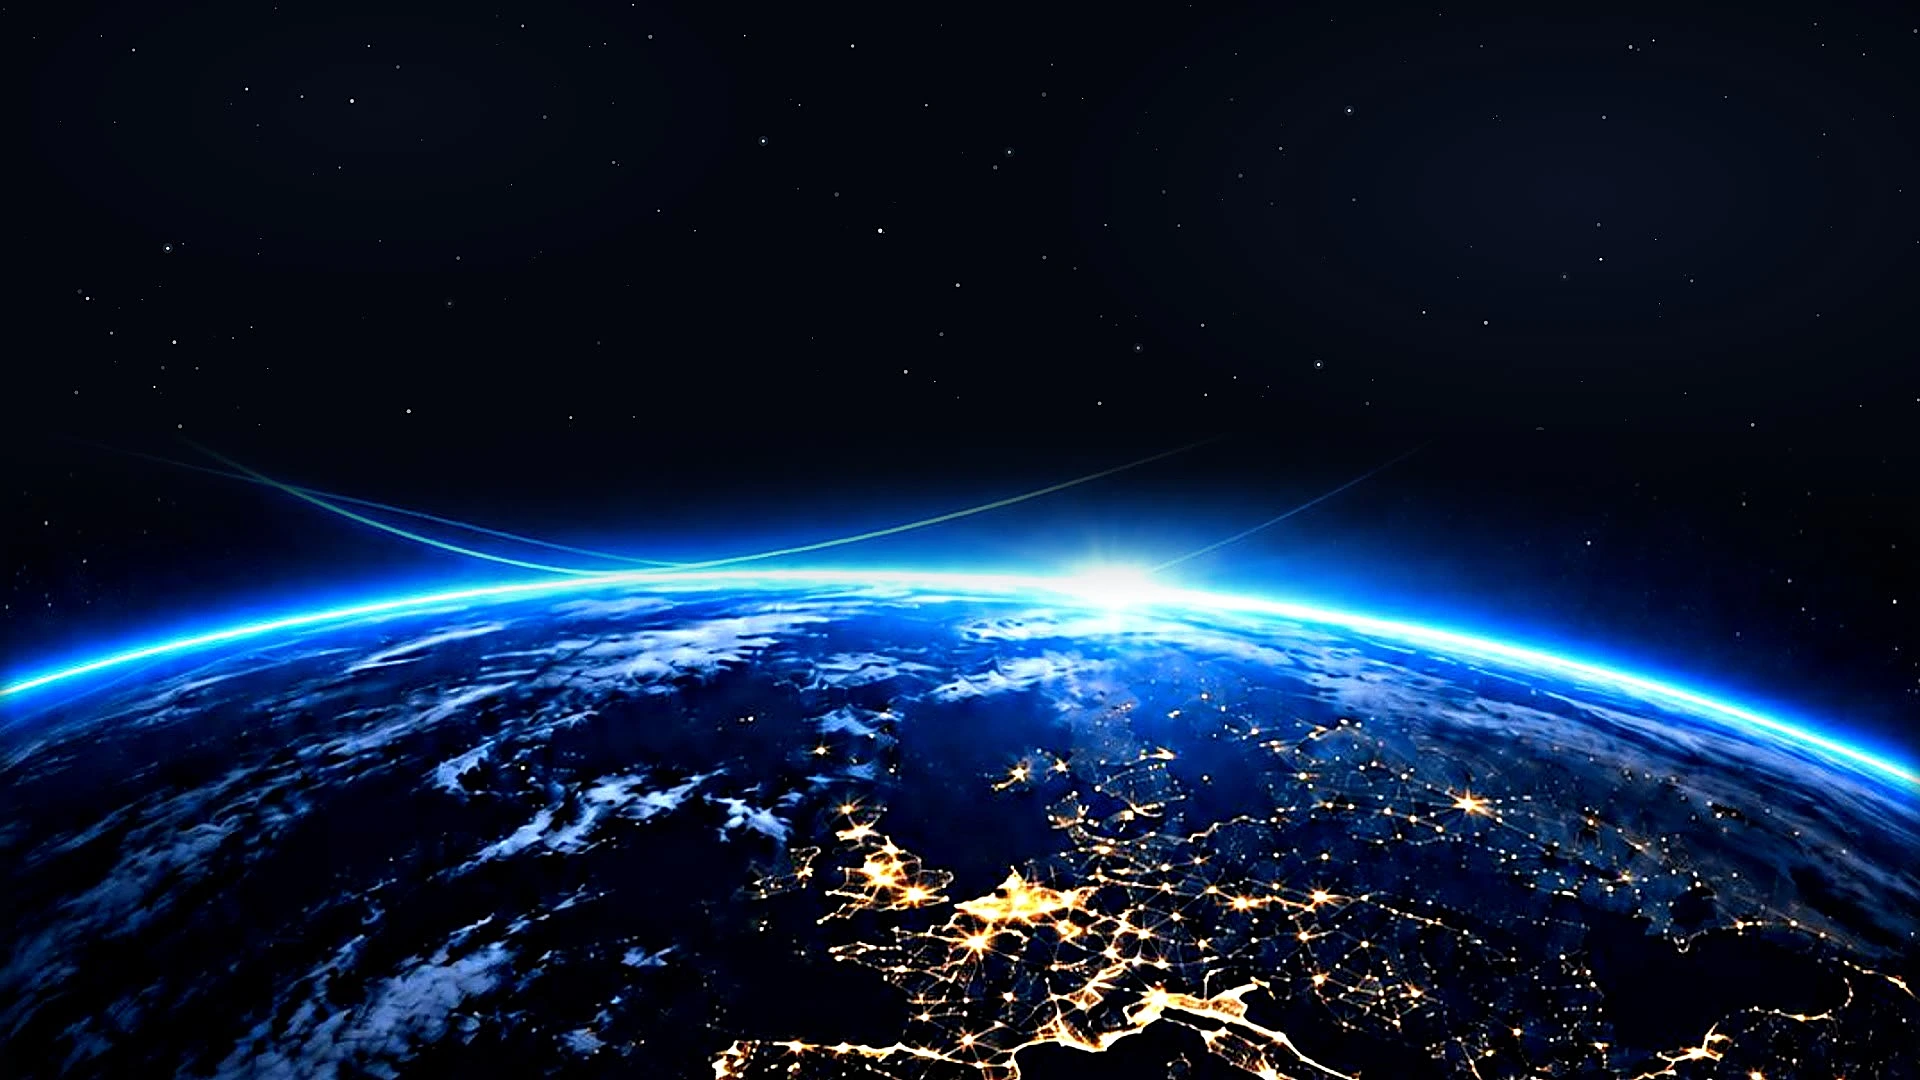
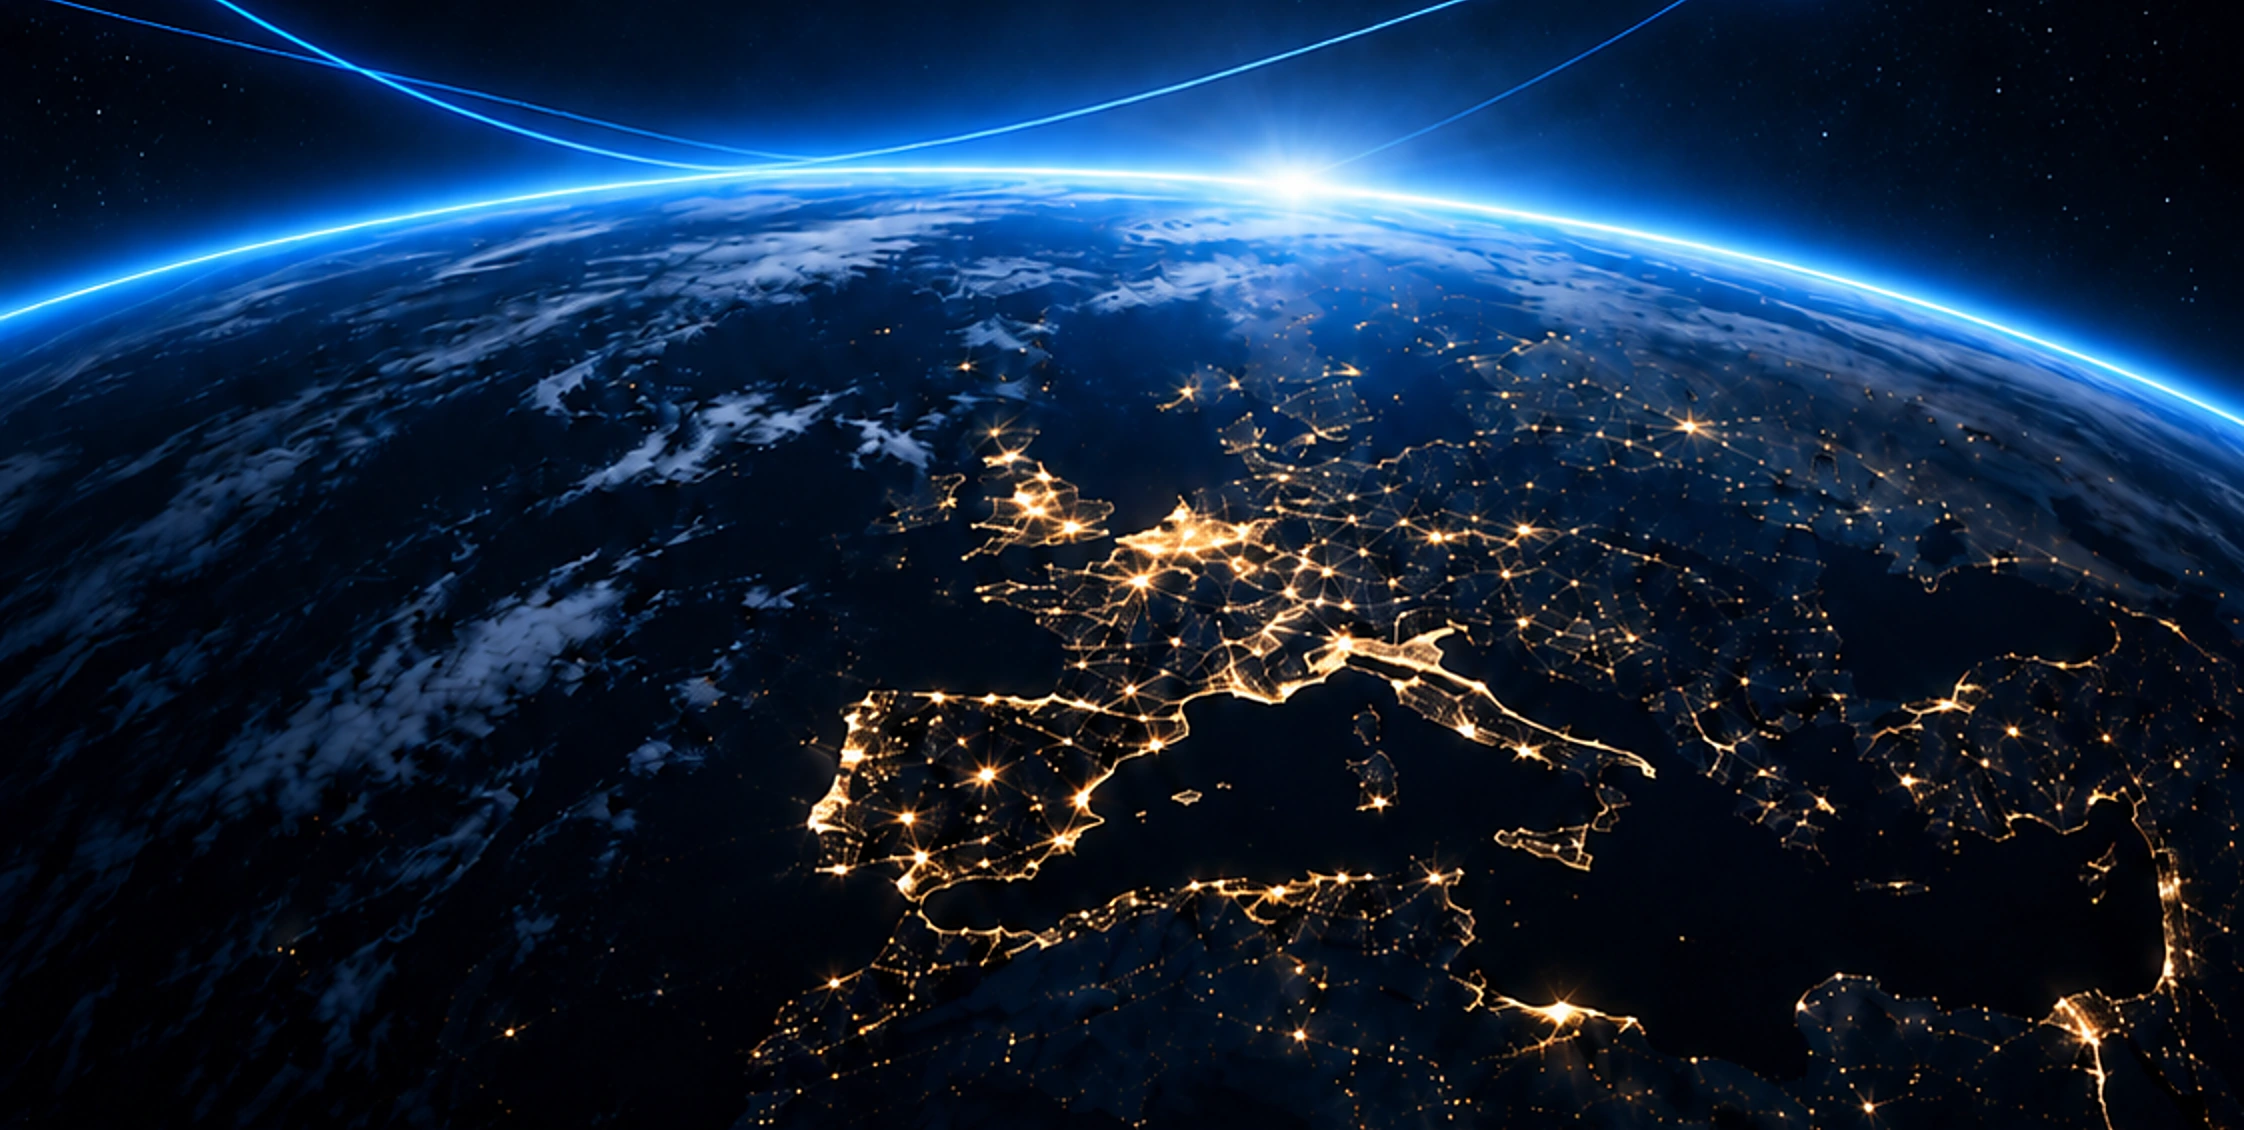
homepage (dev): CTA final — mundo da pasta de identidade, mais nítido e mais curto
O mundo passa a ser o da imagem de identidade Finer One (Terra com as luzes da
Europa): recorte sem texto, ampliado 2x com nitidez reforçada. Secção mais
curta (de 809 para 647 px no desktop, 552 px no telemóvel), enquadramento no
horizonte e na Europa, eyebrow sem traços laterais no telemóvel.

diff --git a/src/components/v2/FinalCTAWorld.tsx b/src/components/v2/FinalCTAWorld.tsx
@@ -9,9 +9,9 @@ import { cn } from '@/lib/utils'
 const EASE = [0.22, 1, 0.36, 1] as const
 
 /**
- * Secção 8 — CTA final (12/11/2026). O "mundo" da hero (a Terra vista do
- * espaço) numa versão estática nítida (public/images/cta-earth.webp, a partir
- * do poster da hero, com nitidez reforçada). Duas ações, por indicação do
+ * Secção 8 — CTA final (12/11/2026). O "mundo" da identidade Finer One (a
+ * Terra com as luzes da Europa, da pasta de imagens de identidade): recorte sem
+ * texto, ampliado 2x com nitidez reforçada (public/images/cta-earth.webp). Duas ações, por indicação do
  * fundador: Ser Finer Pioneer (principal) e lista de espera (secundária).
  *
  * Composição escolhida pelo fundador: à maneira da Lovable (tudo ao centro,
@@ -56,9 +56,9 @@ function Title({ t, center }: { t: T; center?: boolean }) {
   return (
     <>
       <motion.p variants={rise} className={cn('inline-flex items-center gap-3 text-[11px] font-semibold uppercase tracking-[0.2em] text-[#7CB8FF] sm:tracking-[0.3em]', center && 'justify-center')}>
-        <span aria-hidden="true" className="h-px w-8 bg-gradient-to-r from-transparent to-glow" />
+        <span aria-hidden="true" className="hidden h-px w-8 bg-gradient-to-r from-transparent to-glow sm:block" />
         {t.eyebrow}
-        {center && <span aria-hidden="true" className="h-px w-8 bg-gradient-to-l from-transparent to-glow" />}
+        {center && <span aria-hidden="true" className="hidden h-px w-8 bg-gradient-to-l from-transparent to-glow sm:block" />}
       </motion.p>
       <motion.h2 variants={rise} id="cta-final-titulo" className="mt-6 text-balance font-display text-[36px] font-bold leading-[1.05] tracking-[-0.035em] text-white sm:text-[48px] lg:text-[56px]">
         {t.title[0]}
@@ -99,11 +99,11 @@ function LovableCTA({ t }: { t: T }) {
   return (
     <section aria-labelledby="cta-final-titulo" className="relative isolate overflow-hidden bg-[#03060F] text-white">
       <div aria-hidden="true" className="pointer-events-none absolute inset-0 -z-10">
-        <img src={IMG} alt="" loading="lazy" decoding="async" className="absolute inset-x-0 bottom-0 h-[78%] w-full object-cover object-[50%_62%]" />
-        <div className="absolute inset-0 bg-[linear-gradient(to_bottom,#03060F_0%,#03060F_24%,rgba(3,6,15,0.55)_48%,rgba(3,6,15,0.05)_72%,rgba(3,6,15,0.35)_100%)]" />
-        <div className="absolute inset-x-0 bottom-0 h-24 bg-gradient-to-b from-transparent to-navy-deep" />
+        <img src={IMG} alt="" loading="lazy" decoding="async" className="absolute inset-x-0 bottom-0 h-[74%] w-full object-cover object-[50%_16%]" />
+        <div className="absolute inset-0 bg-[linear-gradient(to_bottom,#03060F_0%,#03060F_26%,rgba(3,6,15,0.6)_44%,rgba(3,6,15,0)_64%,rgba(3,6,15,0)_86%,rgba(3,6,15,0.4)_100%)]" />
+        <div className="absolute inset-x-0 bottom-0 h-16 bg-gradient-to-b from-transparent to-navy-deep" />
       </div>
-      <motion.div className="mx-auto max-w-[900px] px-6 pb-[min(34vw,340px)] pt-24 text-center sm:pt-28 lg:pt-32" variants={group} initial="hidden" whileInView="show" viewport={{ once: true, amount: 0.35 }}>
+      <motion.div className="mx-auto max-w-[900px] px-6 pb-[min(20vw,210px)] pt-20 text-center sm:pt-24" variants={group} initial="hidden" whileInView="show" viewport={{ once: true, amount: 0.35 }}>
         <Title t={t} center />
         <Buttons t={t} center />
       </motion.div>
